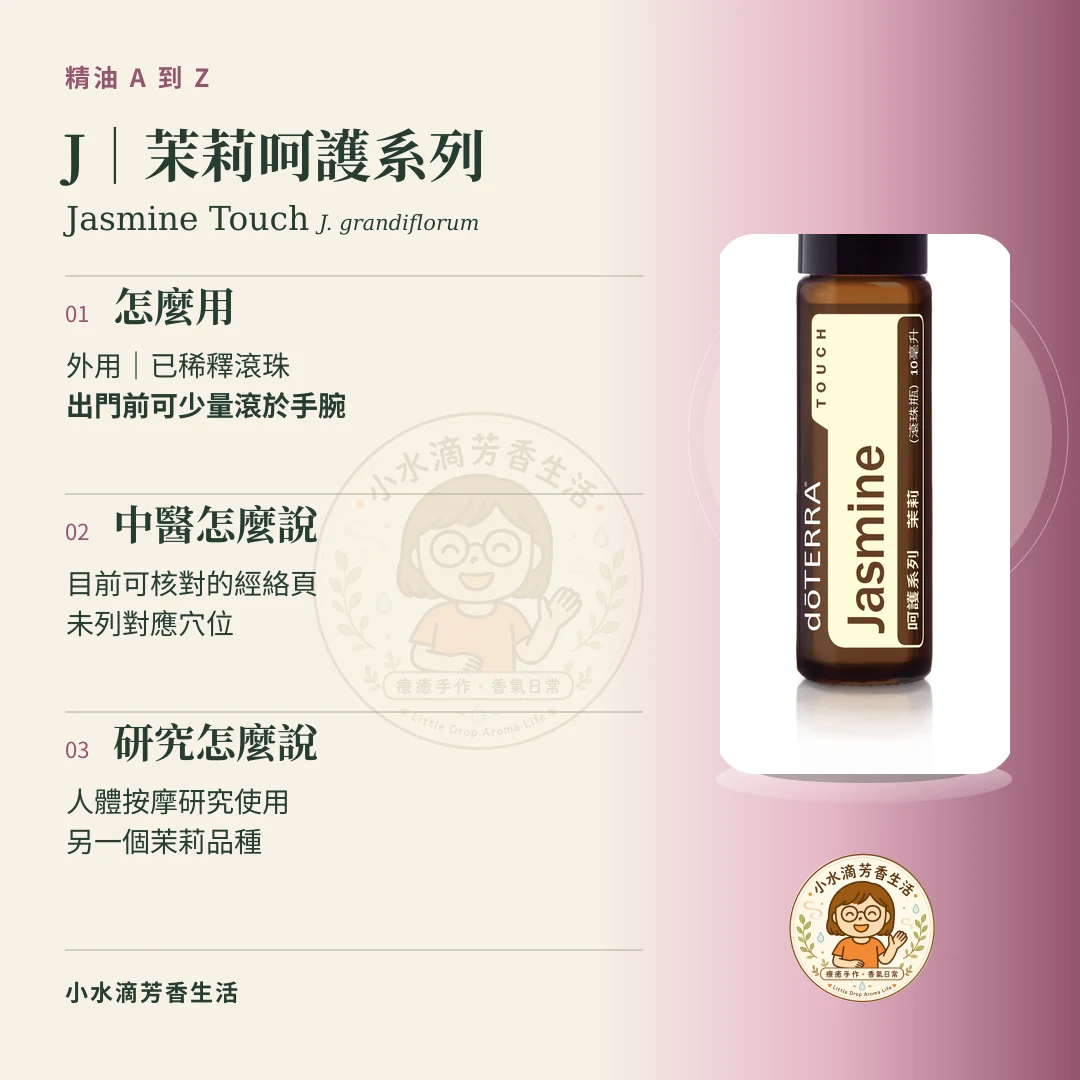
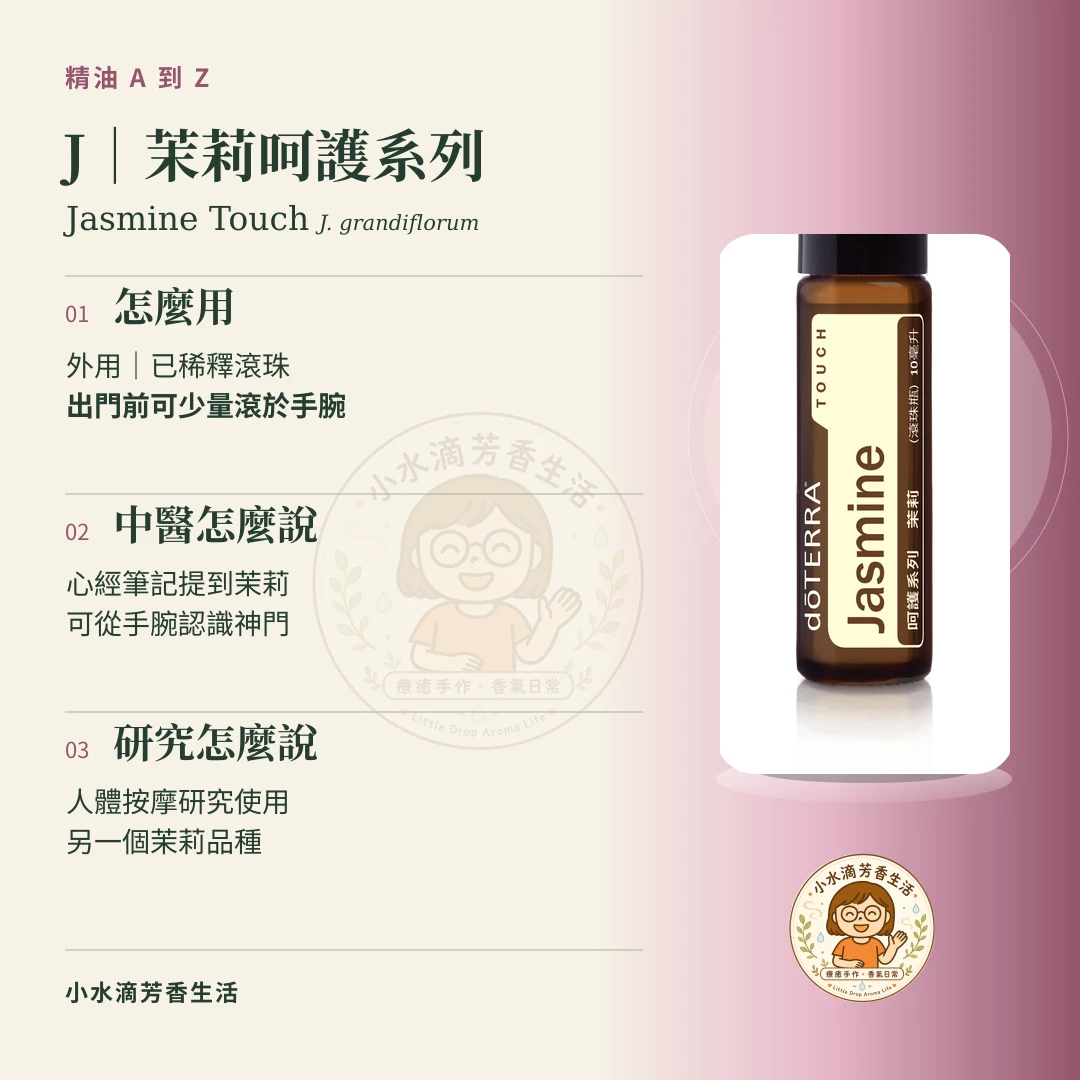
Apply new aroma notes to Jasmine, Oregano and Marjoram

Changed region(s): [[0.0611, 0.5194, 0.3056, 0.6111]]

diff --git a/marjoram.html b/marjoram.html
@@ -67,7 +67,7 @@
             <p class="eyebrow">小水滴芳香生活・精油 A 到 Z</p>
             <h1>M｜馬鬱蘭精油</h1>
             <p class="latin" lang="en">Marjoram</p>
-            <p class="lead">忙完一整天，把肩膀放下來，坐一會兒。馬鬱蘭的草本香偏溫暖，混一點雪松，聞起來像走進有木頭家具的房間。</p>
+            <p class="lead">備課一整個下午，闔上電腦才發現肩膀一直聳著。起身倒杯水，讓肩膀慢慢放下來。這時聞一點馬鬱蘭的暖草香，搭上雪松，像回到有木頭家具的房間。</p>
           </div>
           <figure class="card">
             <img src="./assets/marjoram-card.webp" width="1080" height="1080" alt="小水滴芳香生活馬鬱蘭圖卡，右側是 doTERRA 馬鬱蘭產品。圖卡內容可閱讀下方三節。">
@@ -89,7 +89,7 @@
           <span class="number" aria-hidden="true">02</span>
           <div>
             <h2 id="meridian-title">中醫怎麼說</h2>
-            <p>講義第 21 頁三陰交、第 23 頁神門都列了馬鬱蘭。認完內踝和手腕兩處，再回到自己喜歡的聞香方式。</p>
+            <p>講義第 21 頁三陰交、第 23 頁神門都列了馬鬱蘭。新的心經手寫筆記也提到馬鬱蘭。備課後坐著休息時，可以順手認一下手腕小指側的神門。</p>
             <div class="acupoint-jumps">
               <a href="./index.html?acupoint=sanyinjiao&amp;series=marjoram#acupoints">看三陰交・脾經 →</a>
               <a href="./index.html?acupoint=shenmen&amp;series=marjoram#acupoints">看神門・心經 →</a>

diff --git a/jasmine.html b/jasmine.html
@@ -67,7 +67,7 @@
             <p class="eyebrow">小水滴芳香生活・精油 A 到 Z</p>
             <h1>J｜茉莉呵護系列</h1>
             <p class="latin" lang="en">Jasmine Touch</p>
-            <p class="lead">出門前把袖子捲好，手腕上留一點茉莉。忙了一陣子再抬起手，還能聞到淡淡的花香。</p>
+            <p class="lead">出門前在玄關找鑰匙，順手把袖口捲起來，留一點茉莉在手腕。路上抬手整理頭髮時，才又聞到那股暖暖的花香。</p>
           </div>
           <figure class="card">
             <img src="./assets/jasmine-card.webp" width="1080" height="1080" alt="小水滴芳香生活茉莉圖卡，右側是 doTERRA 茉莉產品。圖卡內容可閱讀下方三節。">
@@ -89,9 +89,9 @@
           <span class="number" aria-hidden="true">02</span>
           <div>
             <h2 id="meridian-title">中醫怎麼說</h2>
-            <p>目前能核對的經絡頁面沒有列出茉莉的對應穴位。想認位置，可以先從網站的穴道圖逛起。</p>
+            <p>你補拍的心經手寫筆記有列到茉莉。要認識心經，可以從手腕小指側的神門開始。這裡用神門帶路，茉莉滾珠則依產品標示當個人香氛。</p>
             <div class="acupoint-jumps">
-              <a href="./index.html#acupoints">看認識穴道 →</a>
+              <a href="./index.html?acupoint=shenmen&amp;series=jasmine#acupoints">看神門・心經 →</a>
             </div>
           </div>
         </section>

diff --git a/oregano.html b/oregano.html
@@ -89,9 +89,9 @@
           <span class="number" aria-hidden="true">02</span>
           <div>
             <h2 id="meridian-title">中醫怎麼說</h2>
-            <p>目前能核對的經絡頁面沒有列出牛至的對應穴位。可以在穴道圖選位置練習辨認。</p>
+            <p>你補拍的肝經手寫筆記有列到牛至。想認識肝經，可以從腳背的太衝開始。牛至這篇保留擴香的用法。</p>
             <div class="acupoint-jumps">
-              <a href="./index.html#acupoints">看認識穴道 →</a>
+              <a href="./index.html?acupoint=taichong&amp;series=oregano#acupoints">看太衝・肝經 →</a>
             </div>
           </div>
         </section>

diff --git a/acupoint-guide.js b/acupoint-guide.js
@@ -53,6 +53,8 @@
     eucalyptus: {name:"尤加利",points:["shaoshang"]},
     fennel: {name:"甜茴香",points:["sanyinjiao"]},
     geranium: {name:"天竺葵",points:["taichong"]},
+    jasmine: {name:"茉莉",points:["shenmen"]},
+    oregano: {name:"牛至",points:["taichong"]},
     "helichrysum": {"name": "永久花", "points": ["taichong"]},
     "lavender": {"name": "薰衣草", "points": ["sanyinjiao", "shenmen"]},
     "marjoram": {"name": "馬鬱蘭", "points": ["sanyinjiao", "shenmen"]},

diff --git a/index.html b/index.html
@@ -36,7 +36,7 @@
   <script defer src="./member.js?v=20260905-2"></script>
   <script defer src="./animated-guide.js?v=20261024-1"></script>
   <script defer src="./care-path.js?v=20261024-1"></script>
-  <script defer src="./acupoint-guide.js?v=20261110-4"></script>
+  <script defer src="./acupoint-guide.js?v=20261110-5"></script>
   <link rel="stylesheet" href="./animated-guide.css?v=20261024-1">
 </head>
 <body>
